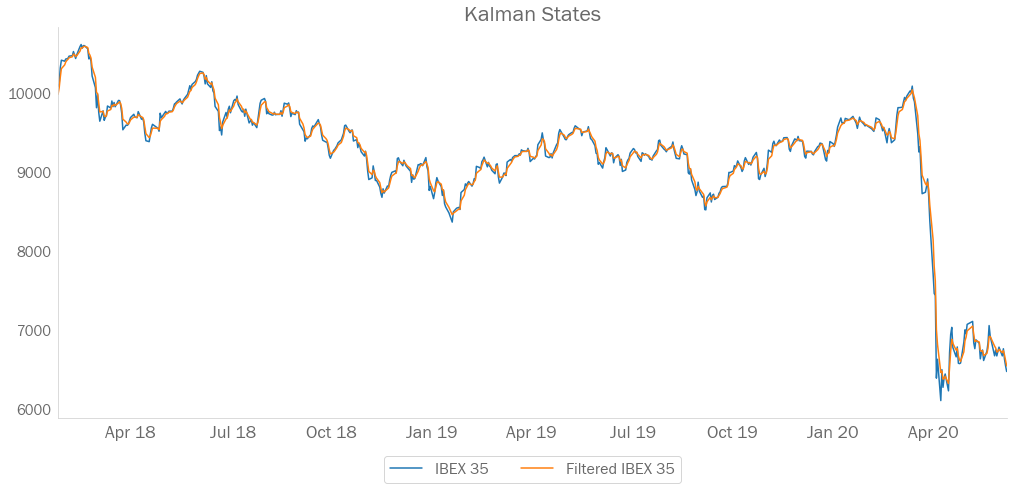
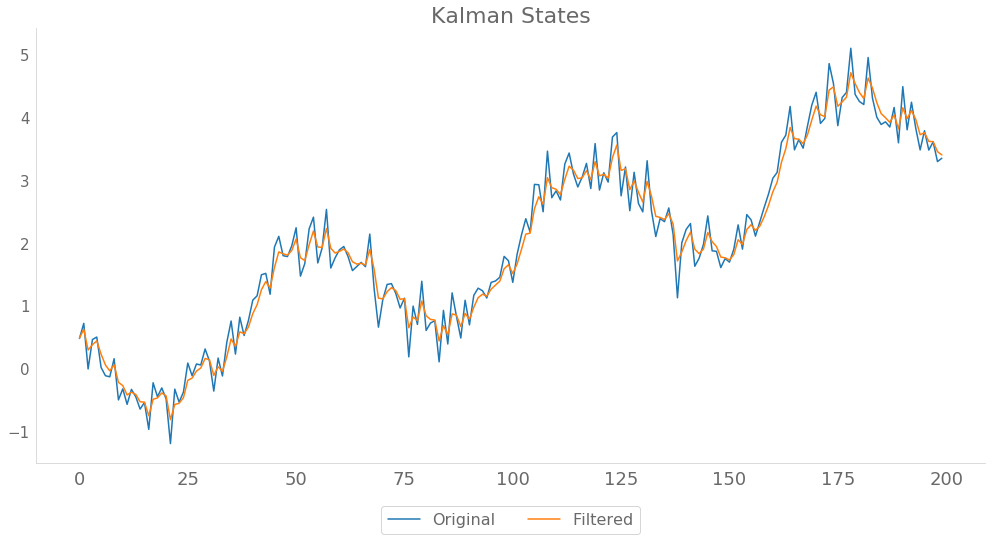
WIP: fix merge

diff --git a/kalmanfilter/_standard.py b/kalmanfilter/_standard.py
@@ -142,9 +142,9 @@ class KalmanFilter:
     def run_filter(self, Z, U):
         """Runs filter over Z.
         
-        Applies the filtering process over Z and returns all errors and 
-        covariances. That is: given Z, this functions apply the predict and
-        update feedback loop for each zk, where k is a timestamp.
+        Applies the filtering process over Z and U and returns all errors and 
+        covariances. That is: given Z and U, this functions apply the predict 
+        and update feedback loop for each zk, where k is a timestamp.
         
         Parameters
         ----------

diff --git a/kalmanfilter/__init__.py b/kalmanfilter/__init__.py
@@ -1,9 +1,5 @@
 """ General implementation of Kalman filter algorithm using NumPy. """
 
-# relative subpackages import
-from . import _standard
-
-
 # filters
 from ._standard import KalmanFilter
 

diff --git a/tests/__init__.py b/tests/__init__.py
@@ -1,0 +1,1 @@
+from . import test_standard

diff --git a/README.md b/README.md
@@ -60,28 +60,47 @@ pytest -v tests/
 ```
 
 ## Usage
-To make use of the Kalman filter, you only need to decide the value of the 
-different parameters. Let's apply the Kalman filter to extract the signal of 
-`Ibex 35` financial time series. This series was obtained using 
-[investpy](https://github.com/alvarobartt/investpy), but a `.pkl` file is 
-provided.
+In this example, we generate a noisy sine wave function function to test the
+Kalman filter library.
 ```python
-import os
 import numpy as np
 import pandas as pd
 import matplotlib.pyplot as plt
 
-from pathlib import Path
 from kalmanfilter import KalmanFilter
 
 
-DATA_PATH = Path(os.path.abspath('')).parent / "tests/data"
-
-# read data
-ibex = pd.read_pickle(DATA_PATH / "ibex35.pkl")
+def generate_func(start, end, step, beta, var):
+    """
+    Generate a noisy sine wave function
+    
+    Parameters
+    ----------
+    start : int
+        Initial X value.
+    end : int
+        Final X value.
+    step : float or int
+        Space between values.
+    beta : float or int
+        Slope of the sine wave.
+    var : float or int
+        Noise variance.
+        
+    Returns
+    -------
+    Z : numpy.array
+        Noisy sine wave.
+    """
+    _space = np.arange(start=-10, stop=10, step=0.1)
+    _sin = np.sin(_space)
+   
+    return np.array(
+      [beta*x + var*np.random.randn() for x in range(len(_space))]
+    ) + _sin
 
 # set the parameters
-Z = ibex['Close'].values
+Z = generate_func(start=-10, end=10, step=0.1, beta=0.02, var=0.3)
 A = np.array([[1]])
 xk = np.array([[1]])
 
@@ -101,10 +120,16 @@ states, errors = kf.run_filter(Z, U)
 # plot results
 fig, ax = plt.subplots(nrows=1, ncols=1, figsize=(17,8))
 
-ibex.plot(ax=ax)
-ax.plot(ibex.index, states)
-ax.legend(['IBEX 35', 'Filtered IBEX 35'])
-ax.set_title("Kalman States")
+ax.plot(Z)
+ax.plot(states)
+ax.legend(
+  ['Original', 'Filtered'],
+  bbox_to_anchor=[0.5, -0.13],
+  loc='center',
+  ncol=2,
+  prop={'size': 16}
+)
+ax.set_title("Kalman States", fontsize=22)
 ax.set_xlabel("");
 ```
 ![signal](img/signal.png)

diff --git a/CHANGELOG.md b/CHANGELOG.md
@@ -4,6 +4,18 @@ All notable changes to this project will be documented in this file.
 
 The format is based on [Keep a Changelog](http://keepachangelog.com/en/1.0.0/).
 
+## [1.2.0] - 2021-03-08
+
+### Changed
+
+- Updated `quickstart`.
+- Updated `README`.
+
+### Fixed
+
+- Fixed naming in tests.
+
+
 ## [1.1.1] - 2021-01-13
 
 ### Changed
